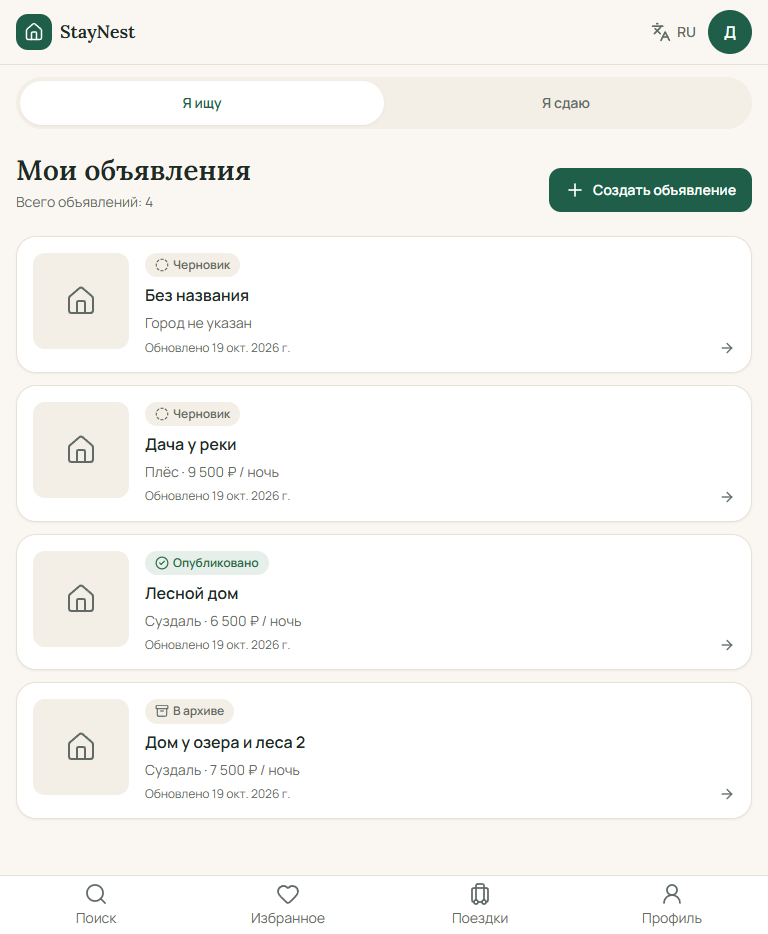
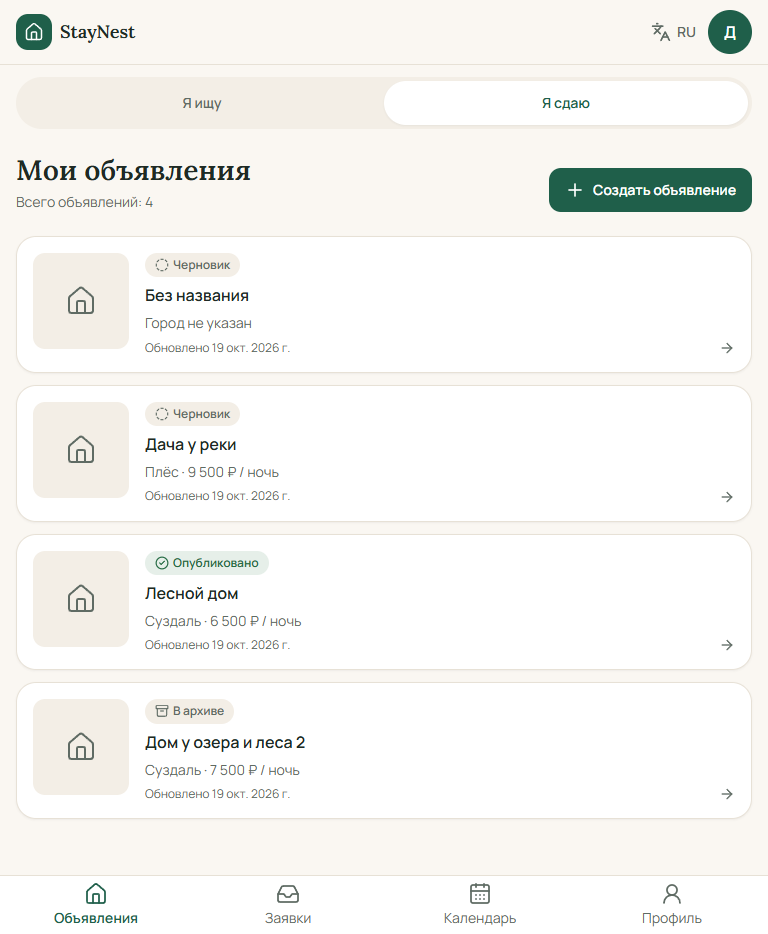
fix(web): scope listings cache and surface editor errors

diff --git a/apps/web/src/features/listings/model/useListingEditor.ts b/apps/web/src/features/listings/model/useListingEditor.ts
@@ -1,6 +1,6 @@
 import type { ListingDto } from '@staynest/shared';
 import type { TFunction } from 'i18next';
-import { useEffect, useState } from 'react';
+import { useEffect, useRef, useState } from 'react';
 import { useTranslation } from 'react-i18next';
 import { useToast } from '../../../shared/ui';
 import {
@@ -16,10 +16,14 @@ import type { ListingFormErrors, ListingFormIssue, ListingFormState } from './fo
 
 export function useListingForm(listing: ListingDto) {
   const [state, setState] = useState<ListingFormState>(() => fromListing(listing));
+  const listingRef = useRef(listing);
+  listingRef.current = listing;
 
   useEffect(() => {
-    setState(fromListing(listing));
-  }, [listing]);
+    // Сбрасываем форму только при открытии другого объявления, а не на каждый
+    // refetch: иначе фоновое обновление затрёт несохранённый ввод.
+    setState(fromListing(listingRef.current));
+  }, [listing.id]);
 
   function setField<K extends keyof ListingFormState>(field: K, value: ListingFormState[K]): void {
     setState((current) => ({ ...current, [field]: value }));
@@ -33,6 +37,24 @@ function errorMap(issues: ListingFormIssue[], t: TFunction): ListingFormErrors {
 
   for (const item of issues) {
     errors[item.field] = t(issueTextKey(item.code));
+  }
+
+  return errors;
+}
+
+const SERVER_FORM_FIELDS: Record<string, keyof ListingFormState> = {
+  basePriceMinor: 'basePrice',
+};
+
+function serverErrorMap(
+  issues: ReturnType<typeof publishIssuesFrom>,
+  t: TFunction,
+): ListingFormErrors {
+  const errors: ListingFormErrors = {};
+
+  for (const item of issues) {
+    const field = SERVER_FORM_FIELDS[item.field] ?? item.field;
+    if (field !== 'photos') errors[field as keyof ListingFormState] = t(issueTextKey(item.code));
   }
 
   return errors;
@@ -60,13 +82,21 @@ function usePersistence(listing: ListingDto, form: ListingFormState) {
       await amenities.mutateAsync({ amenityIds: form.amenityIds });
       return true;
     } catch (error) {
+      const serverIssues = publishIssuesFrom(error);
+      if (serverIssues.length > 0) {
+        setFormErrors(serverErrorMap(serverIssues, t));
+        return false;
+      }
+
       toast.show({ title: t(listingsErrorKey(error)), tone: 'error' });
       return false;
     }
   }
 
-  async function save(): Promise<void> {
-    if (await persist()) toast.show({ title: t('listings.editor.saved'), tone: 'success' });
+  async function save(): Promise<boolean> {
+    const saved = await persist();
+    if (saved) toast.show({ title: t('listings.editor.saved'), tone: 'success' });
+    return saved;
   }
 
   return {
@@ -136,6 +166,7 @@ function useStatusActions(
     publishNow,
     archiveNow,
     removeNow,
+    clearIssues: () => setPublishIssues([]),
   };
 }
 
@@ -147,5 +178,13 @@ export function useListingActions(
   const persistence = usePersistence(listing, form);
   const status = useStatusActions(listing, persistence.persist, onDeleted);
 
-  return { ...persistence, ...status };
+  return {
+    ...persistence,
+    ...status,
+    async save(): Promise<boolean> {
+      const saved = await persistence.save();
+      if (saved) status.clearIssues();
+      return saved;
+    },
+  };
 }

diff --git a/apps/web/src/app/App.test.tsx b/apps/web/src/app/App.test.tsx
@@ -254,4 +254,37 @@ describe('App', () => {
     expect(await screen.findByText('Пока нельзя опубликовать')).toBeInTheDocument();
     expect(screen.getByText('Добавьте минимум 3 фотографии.')).toBeInTheDocument();
   });
+
+  it('сохраняет форму и отправляет PATCH с введёнными полями', async () => {
+    let body: Record<string, unknown> | null = null;
+    mockApi({
+      user: demoUser,
+      listings: [{ ...demoListing, title: 'Дом у озера' }],
+      onRequest: (url, init) => {
+        if (init?.method === 'PATCH' && url.includes('/listings/') && init.body) {
+          body = JSON.parse(String(init.body)) as Record<string, unknown>;
+        }
+      },
+    });
+    const user = userEvent.setup();
+    renderApp([`/host/listings/${demoListing.id}`]);
+
+    const title = await screen.findByLabelText('Название');
+    await user.clear(title);
+    await user.type(title, 'Дом у озера 2');
+    await user.click(screen.getByRole('button', { name: 'Сохранить' }));
+
+    expect(await screen.findByText('Изменения сохранены')).toBeInTheDocument();
+    expect(body).toMatchObject({ title: 'Дом у озера 2' });
+  });
+
+  it('блокирует сохранение без сети и показывает объяснение', async () => {
+    vi.spyOn(window.navigator, 'onLine', 'get').mockReturnValue(false);
+    mockApi({ user: demoUser, listings: [{ ...demoListing, title: 'Дом у озера' }] });
+    renderApp([`/host/listings/${demoListing.id}`]);
+
+    expect(await screen.findByText(/Нет сети/)).toBeInTheDocument();
+    expect(screen.getByRole('button', { name: 'Сохранить' })).toBeDisabled();
+    expect(screen.getByRole('button', { name: 'Опубликовать' })).toBeDisabled();
+  });
 });

diff --git a/apps/web/src/app/layouts/AppLayout.tsx b/apps/web/src/app/layouts/AppLayout.tsx
@@ -1,16 +1,16 @@
 import { CalendarDays, Heart, House, Inbox, Luggage, Search, UserRound } from 'lucide-react';
+import { useEffect, useRef } from 'react';
 import { useTranslation } from 'react-i18next';
-import { Outlet } from 'react-router-dom';
+import { Outlet, useLocation } from 'react-router-dom';
 import { ModeSwitchControl, useMode } from '../../features/mode-switch';
 import { BottomNav } from '../../shared/ui/BottomNav';
 import type { BottomNavItem } from '../../shared/ui/BottomNav';
 import { AppHeader } from './AppHeader';
 
-function useNavItems(): BottomNavItem[] {
+function useNavItems(hostMode: boolean): BottomNavItem[] {
   const { t } = useTranslation();
-  const { mode } = useMode();
 
-  if (mode === 'host') {
+  if (hostMode) {
     return [
       { to: '/host/listings', label: t('nav.host.listings'), icon: House },
       { to: '/host/requests', label: t('nav.host.requests'), icon: Inbox },
@@ -29,7 +29,24 @@ function useNavItems(): BottomNavItem[] {
 
 export function AppLayout() {
   const { t } = useTranslation();
-  const items = useNavItems();
+  const location = useLocation();
+  const { mode, setMode } = useMode();
+  const hostRoute = location.pathname.startsWith('/host');
+  const syncedHost = useRef(false);
+
+  useEffect(() => {
+    if (!hostRoute) {
+      syncedHost.current = false;
+      return;
+    }
+
+    if (!syncedHost.current) {
+      syncedHost.current = true;
+      if (mode !== 'host') setMode('host');
+    }
+  }, [hostRoute, mode, setMode]);
+
+  const items = useNavItems(mode === 'host' || hostRoute);
 
   return (
     <div className="flex min-h-dvh flex-col">

diff --git a/apps/web/src/features/listings/model/form.ts b/apps/web/src/features/listings/model/form.ts
@@ -1,4 +1,10 @@
 import type { ListingDto, ListingType, UpdateListingInput } from '@staynest/shared';
+import {
+  MAX_LISTING_TITLE,
+  MAX_MONEY_MINOR,
+  MIN_LISTING_TITLE,
+  textLength,
+} from '@staynest/shared';
 import { inputToInteger, inputToMinor, minorToInput } from '../../../shared/lib/format';
 
 export type ListingFormState = {
@@ -81,7 +87,7 @@ function boundedInteger(raw: string, min: number, max: number, fallback: number)
 
 function money(raw: string): number | null {
   const value = inputToMinor(raw);
-  return value !== null && value > 0 ? value : null;
+  return value !== null && value > 0 && value <= MAX_MONEY_MINOR ? value : null;
 }
 
 function issue(field: keyof ListingFormState, code: string): ListingFormIssue {
@@ -137,7 +143,10 @@ function numericIssues(state: ListingFormState): ListingFormIssue[] {
   }
 
   const title = state.title.trim();
-  if (title !== '' && title.length < 5) issues.push(issue('title', 'title_too_short'));
+  if (title !== '' && textLength(title) < MIN_LISTING_TITLE) {
+    issues.push(issue('title', 'title_too_short'));
+  }
+  if (textLength(title) > MAX_LISTING_TITLE) issues.push(issue('title', 'title_too_long'));
 
   return issues;
 }

diff --git a/apps/web/src/features/listings/components/ListingFormSections.tsx b/apps/web/src/features/listings/components/ListingFormSections.tsx
@@ -1,4 +1,5 @@
 import type { ListingType } from '@staynest/shared';
+import { MAX_DESCRIPTION, MAX_LISTING_TITLE } from '@staynest/shared';
 import { useTranslation } from 'react-i18next';
 import { Input, Select, Textarea } from '../../../shared/ui';
 import type { TranslationKey } from '../../../shared/i18n';
@@ -24,7 +25,7 @@ export function ListingBasicsSection({ state, setField, errors }: SectionProps) 
         hint={t('listings.field.titleHint')}
         error={errors.title}
         value={state.title}
-        maxLength={120}
+        maxLength={MAX_LISTING_TITLE}
         onChange={(event) => setField('title', event.target.value)}
       />
 
@@ -41,7 +42,7 @@ export function ListingBasicsSection({ state, setField, errors }: SectionProps) 
         hint={t('listings.field.descriptionHint')}
         error={errors.description}
         value={state.description}
-        maxLength={5000}
+        maxLength={MAX_DESCRIPTION}
         showCounter
         currentLength={state.description.length}
         onChange={(event) => setField('description', event.target.value)}

diff --git a/apps/web/src/shared/i18n/resources/ru.ts b/apps/web/src/shared/i18n/resources/ru.ts
@@ -261,7 +261,6 @@ export const ru = {
   'listings.perNight': '{{price}} / ночь',
   'listings.pendingCount': 'Заявок: {{count}}',
   'listings.preview': 'Гость увидит: {{price}} за ночь',
-  'listings.card.open': 'Открыть объявление «{{title}}»',
   'listings.create': 'Создать объявление',
   'listings.creating': 'Создаём…',
   'listings.created': 'Черновик создан',
@@ -337,6 +336,7 @@ export const ru = {
   'listings.formIssues.title': 'Проверьте поля',
   'listings.issues.title_required': 'Укажите название объявления.',
   'listings.issues.title_too_short': 'Название: не менее 5 символов.',
+  'listings.issues.title_too_long': 'Название: не длиннее 120 символов.',
   'listings.issues.description_too_short': 'Описание: не менее 50 символов.',
   'listings.issues.city_required': 'Укажите город.',
   'listings.issues.address_required': 'Укажите адрес.',

diff --git a/apps/web/src/shared/lib/format.ts b/apps/web/src/shared/lib/format.ts
@@ -7,12 +7,20 @@ function localeTag(locale: string): string {
 export function formatMoney(minor: number, locale: string, currency = 'RUB'): string {
   const hasFraction = minor % 100 !== 0;
 
-  return new Intl.NumberFormat(localeTag(locale), {
-    style: 'currency',
-    currency,
-    minimumFractionDigits: hasFraction ? 2 : 0,
-    maximumFractionDigits: hasFraction ? 2 : 0,
-  }).format(minor / 100);
+  try {
+    return new Intl.NumberFormat(localeTag(locale), {
+      style: 'currency',
+      currency,
+      minimumFractionDigits: hasFraction ? 2 : 0,
+      maximumFractionDigits: hasFraction ? 2 : 0,
+    }).format(minor / 100);
+  } catch {
+    // Битая валюта в старых данных не должна ронять весь экран.
+    return new Intl.NumberFormat(localeTag(locale), {
+      minimumFractionDigits: hasFraction ? 2 : 0,
+      maximumFractionDigits: hasFraction ? 2 : 0,
+    }).format(minor / 100);
+  }
 }
 
 export function minorToInput(minor: number | null): string {

diff --git a/apps/web/src/features/listings/model/errors.ts b/apps/web/src/features/listings/model/errors.ts
@@ -19,6 +19,7 @@ const ERROR_KEYS: Record<string, TranslationKey> = {
 const ISSUE_KEYS: Record<string, TranslationKey> = {
   title_required: 'listings.issues.title_required',
   title_too_short: 'listings.issues.title_too_short',
+  title_too_long: 'listings.issues.title_too_long',
   description_too_short: 'listings.issues.description_too_short',
   city_required: 'listings.issues.city_required',
   address_required: 'listings.issues.address_required',
@@ -70,6 +71,11 @@ const ANCHORED_FIELDS = new Set([
   'basePrice',
 ]);
 
+const FIELD_ALIASES: Record<string, string> = {
+  basePriceMinor: 'basePrice',
+};
+
 export function fieldAnchor(field: string): string | null {
-  return ANCHORED_FIELDS.has(field) ? `listing-${field}` : null;
+  const normalized = FIELD_ALIASES[field] ?? field;
+  return ANCHORED_FIELDS.has(normalized) ? `listing-${normalized}` : null;
 }

diff --git a/apps/web/src/shared/i18n/resources/en.ts b/apps/web/src/shared/i18n/resources/en.ts
@@ -264,7 +264,6 @@ export const en = {
   'listings.perNight': '{{price}} / night',
   'listings.pendingCount': 'Requests: {{count}}',
   'listings.preview': 'Guests will see {{price}} per night',
-  'listings.card.open': 'Open listing “{{title}}”',
   'listings.create': 'Create a listing',
   'listings.creating': 'Creating…',
   'listings.created': 'Draft created',
@@ -340,6 +339,7 @@ export const en = {
   'listings.formIssues.title': 'Check the fields',
   'listings.issues.title_required': 'Enter a listing title.',
   'listings.issues.title_too_short': 'Title: at least 5 characters.',
+  'listings.issues.title_too_long': 'Title: no more than 120 characters.',
   'listings.issues.description_too_short': 'Description: at least 50 characters.',
   'listings.issues.city_required': 'Enter a city.',
   'listings.issues.address_required': 'Enter an address.',

diff --git a/apps/web/src/shared/lib/format.test.ts b/apps/web/src/shared/lib/format.test.ts
@@ -1,0 +1,20 @@
+import { describe, expect, it } from 'vitest';
+import { formatMoney, inputToMinor, minorToInput } from './format';
+
+describe('money helpers', () => {
+  it('переводит рубли в копейки и обратно', () => {
+    expect(inputToMinor('7500')).toBe(750_000);
+    expect(inputToMinor('7500,5')).toBe(750_050);
+    expect(minorToInput(750_000)).toBe('7500');
+    expect(minorToInput(null)).toBe('');
+  });
+
+  it('форматирует рубли без копеек и с копейками', () => {
+    expect(formatMoney(750_000, 'ru')).toContain('7');
+    expect(formatMoney(750_050, 'ru')).toContain(',50');
+  });
+
+  it('не роняет экран из-за неизвестной валюты в старых данных', () => {
+    expect(formatMoney(650_000, 'ru', '123')).toContain('6');
+  });
+});

diff --git a/apps/web/src/features/listings/components/ListingPriceSections.tsx b/apps/web/src/features/listings/components/ListingPriceSections.tsx
@@ -1,5 +1,5 @@
 import { useTranslation } from 'react-i18next';
-import { formatMoney } from '../../../shared/lib/format';
+import { formatMoney, inputToMinor } from '../../../shared/lib/format';
 import { useLocale } from '../../../shared/i18n';
 import { Chip, Skeleton, Textarea } from '../../../shared/ui';
 import { useAmenities } from '../api/hooks';
@@ -9,7 +9,7 @@ import { FormSection, NumberField } from './form-parts';
 export function ListingPriceSection({ state, setField, errors }: SectionProps) {
   const { t } = useTranslation();
   const { locale } = useLocale();
-  const preview = state.basePrice ? Number(state.basePrice) * 100 : null;
+  const preview = state.basePrice ? inputToMinor(state.basePrice) : null;
 
   return (
     <FormSection title={t('listings.section.prices')}>

diff --git a/apps/web/src/features/listings/components/ListingIssuesAlert.tsx b/apps/web/src/features/listings/components/ListingIssuesAlert.tsx
@@ -1,4 +1,5 @@
 import { AlertCircle } from 'lucide-react';
+import { useEffect, useRef } from 'react';
 import { fieldAnchor } from '../model/errors';
 
 export type AlertIssue = {
@@ -7,10 +8,19 @@ export type AlertIssue = {
 };
 
 export function ListingIssuesAlert({ title, issues }: { title: string; issues: AlertIssue[] }) {
+  const alertRef = useRef<HTMLDivElement>(null);
+  const signature = issues.map((item) => `${item.field}:${item.message}`).join('|');
+
+  useEffect(() => {
+    if (signature) alertRef.current?.focus();
+  }, [signature]);
+
   if (issues.length === 0) return null;
 
   return (
     <div
+      ref={alertRef}
+      tabIndex={-1}
       role="alert"
       className="flex flex-col gap-2 rounded-lg border border-danger/40 bg-danger/10 p-4"
     >
